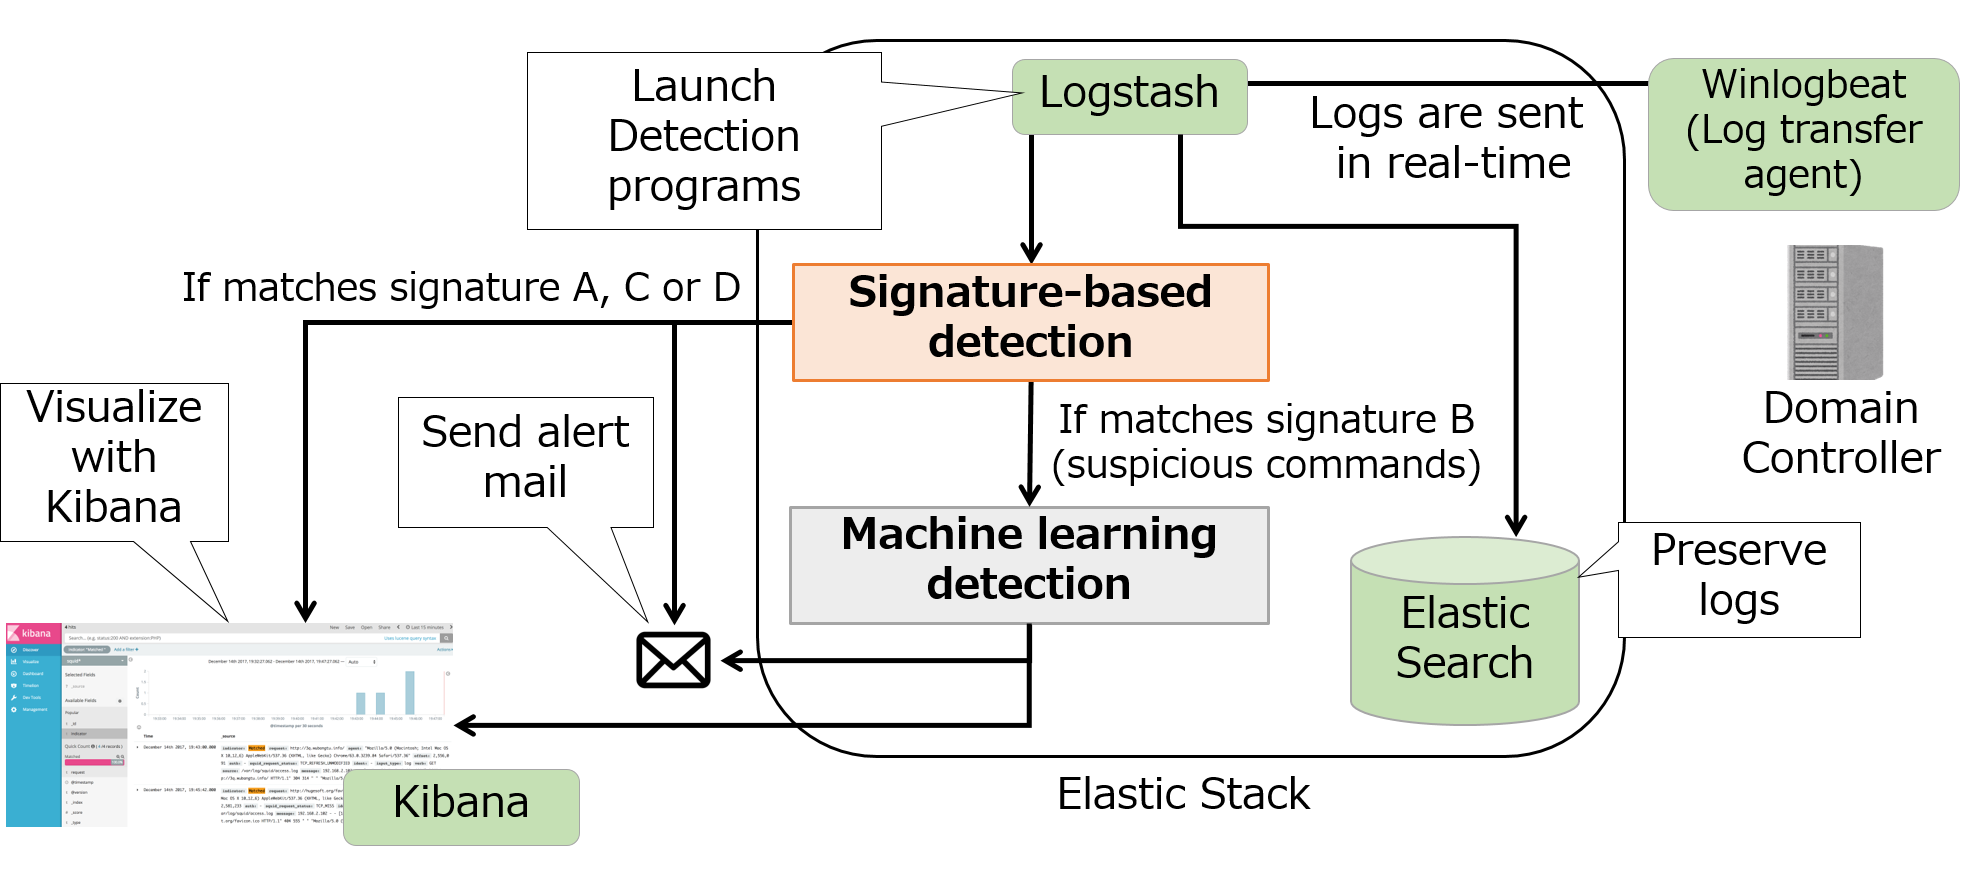
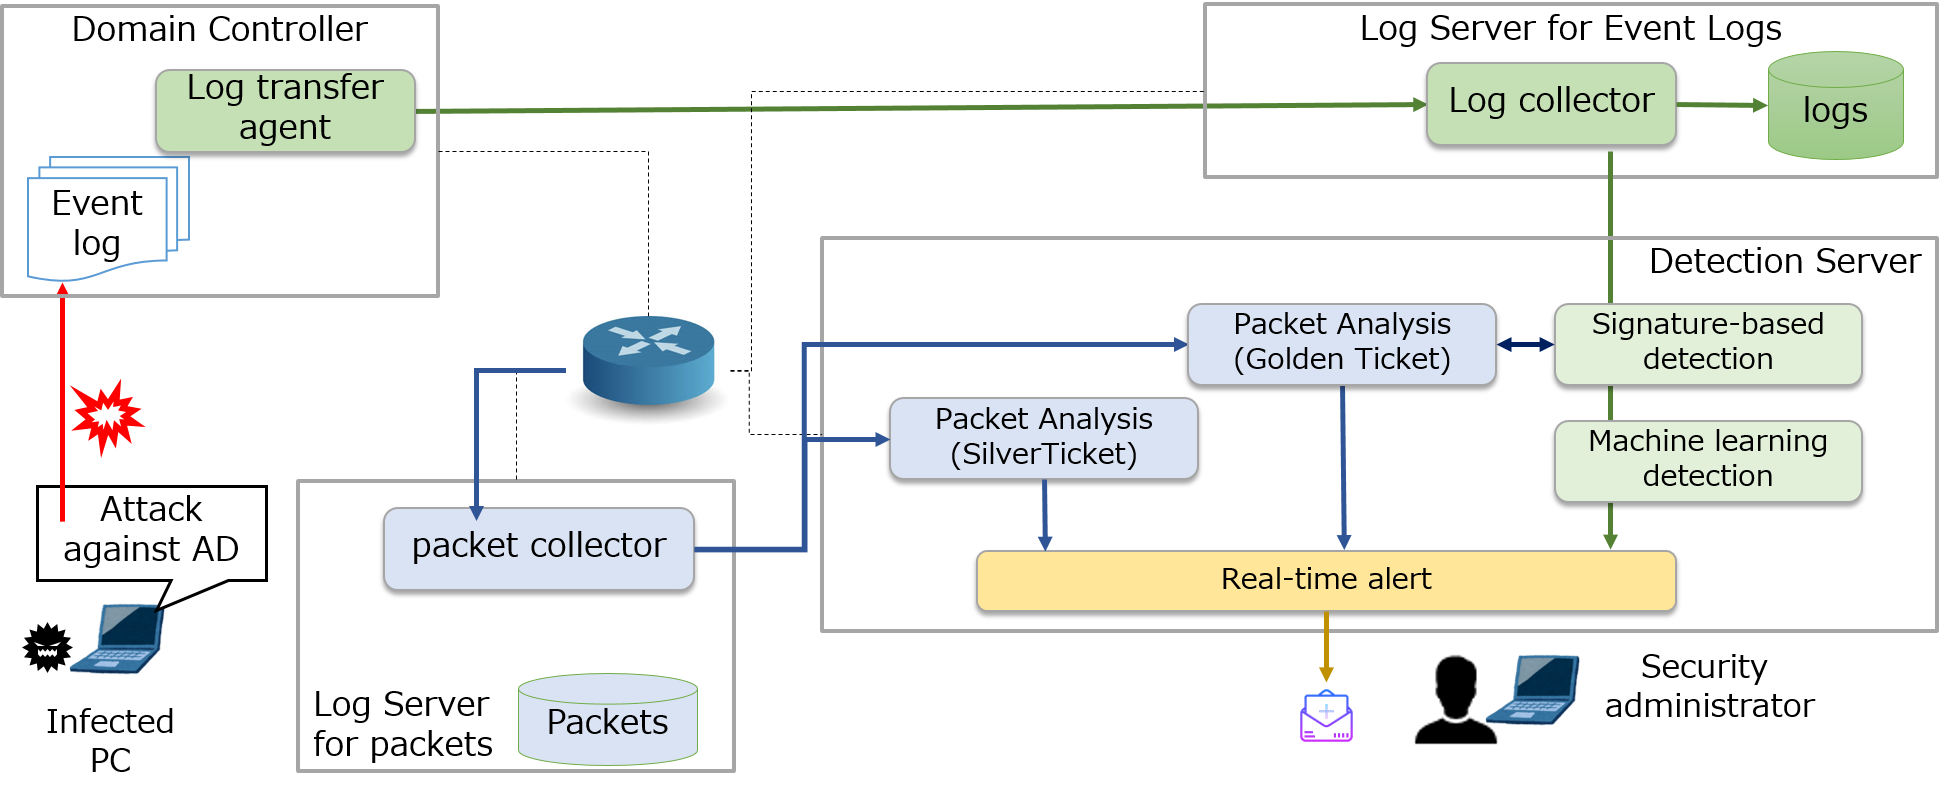
Update readme

diff --git a/tools/detectionTools/detect_golden.py b/tools/detectionTools/detect_golden.py
@@ -17,7 +17,7 @@ def detect_golden(ip_src):
     es = Elasticsearch('10.0.19.112:9200')
     s = Search(using=es, index=INDEX)
     s = s[0:1]
-    q = Q('match', indicator= WARN) & Q('match', event_id = EVENT_ST) & Q('match', event_data__IpAddress = ip_ptn)
+    q = Q('match', indicator__keyword= WARN) & Q('match', event_id = EVENT_ST) & Q('match', event_data__IpAddress__keyword = ip_ptn)
     s1 = s.query(q)
     response = s1.execute()
     id=''

diff --git a/README.md b/README.md
@@ -5,7 +5,7 @@ The tools is the improved version of  <a href="https://github.com/sisoc-tokyo/Re
 Our tool can useful for immediate incident response for targeted attacks.
 
 The tool detects the following attack activities using Event logs and Kerberos/SMB packets. 
-* Attacks leveraging the vulnerability of MS17-010
+* Attacks leveraging the vulnerabilities fixed in MS14-068 and MS17-010
 * Attacks using Golden Ticket
 * Attacks using Silver Ticket
 
@@ -18,8 +18,14 @@ The tool is tested in Windows 2008 R2, 2012, 2016.
 ###	Function of the tool
 Our tool consists of the following components:
 * Detection Server: Detects attack activities leveraging Domain Administrator privileges using signature based detection and Machine Learning.  Detection programs are implemented by Web API.
-* Log Server:  Log Server is implemented using Elactic Stack. It collects the Domain Controller’s Event logs in real-time and provide log search and visualization.
+* Log Server for Event Logs:  Log Server is implemented using Elactic Stack. It collects the Domain Controller’s Event logs in real-time and provide log search and visualization.
+* Log Server for packets:  Collect Kerberos packets using tshark. Cpllected packets are sent to Elastic search using Logsrash.
 
+Our method consists of the following functions.
+* Event Log analysis
+* Packet analysis
+
+* Event Log analysis
 1.	If someone access to the Domain Controller including attacks, activities are recorded in the Event log.
 2.	Each Event Log is sent to Logstash  in real-time by Winlogbeat.<br>
 Logstash extracts input data from the Event log, then call the detection API on Detection Server.
@@ -30,12 +36,21 @@ Send alert E-mail to the security administrator, and add a flag indicates attack
 6.	Transfer the log to Elasticsearch . 
 
 ###	Input of the tools: Event logs of the Domain Controller. 
-* 4672: An account assigned with special privileges logged on.
-* 4674: An operation was attempted on a privileged object
-* 4688: A new process was created
-* 4768: A Kerberos authentication ticket (TGT) was requested
-* 4769: A Kerberos service ticket was requested
-* 5140: A network share object was accessed
+** 4672: An account assigned with special privileges logged on.
+** 4674: An operation was attempted on a privileged object
+** 4688: A new process was created
+** 4768: A Kerberos authentication ticket (TGT) was requested
+** 4769: A Kerberos service ticket was requested
+** 5140: A network share object was accessed
+
+* Packet analysis
+1.	If someone access to the Domain Controller including attacks, Kerberos packets are sent to Domain Controller.
+2.	Tshark collects Kerberos packets.<br>
+Logstash extracts input data from the packets, then call the detection API on Detection Server.
+3.	Detection API is launched. Analyze wheter Golden Tickets and Silver Tickets are used from packets.
+4.	If attack is detected, judge the log is recorded by attack activities.<br>
+Send alert E-mail to the security administrator, and add a flag indicates attack to the packet .
+6.	Transfer the packet to Elasticsearch . 
 
 ###	Output (result) of the tool
 * Distinguish logs recorded by attack activities from logs recorded by normal operations, and identity infected computers and accounts. <br>
@@ -45,7 +60,7 @@ The detection result can be checked using Kibana.
 ###	System Requirements
 We tested our tool in the following environment.
 
-* Domain Controller (Windows 2008R2)
+* Domain Controller (Windows 2008R2/ 2012 R2/ 2016)
     * Winlogbeat(5.4.2): Open-source log analysis platform
 * Log Server: Open-source tools + Logstash pipeline
      * OS: CentOS 7
